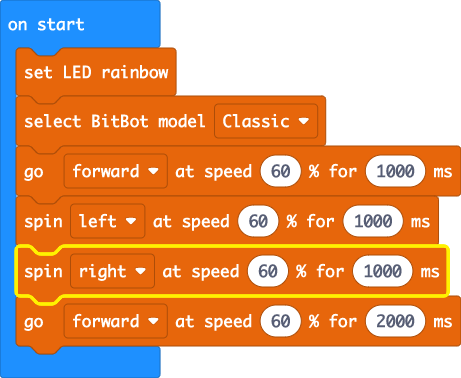
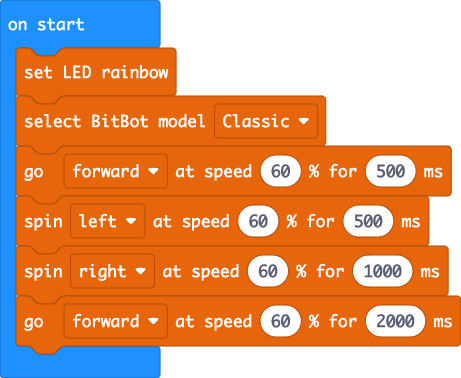
Update pxt.json, main.blocks, main.ts

diff --git a/main.ts b/main.ts
@@ -1,6 +1,6 @@
 bitbot.ledRainbow()
 bitbot.select_model(BBModel.Classic)
-bitbot.goms(BBDirection.Forward, 60, 1000)
-bitbot.rotatems(BBRobotDirection.Left, 60, 1000)
+bitbot.goms(BBDirection.Forward, 60, 500)
+bitbot.rotatems(BBRobotDirection.Left, 60, 500)
 bitbot.rotatems(BBRobotDirection.Right, 60, 1000)
 bitbot.goms(BBDirection.Forward, 60, 2000)
